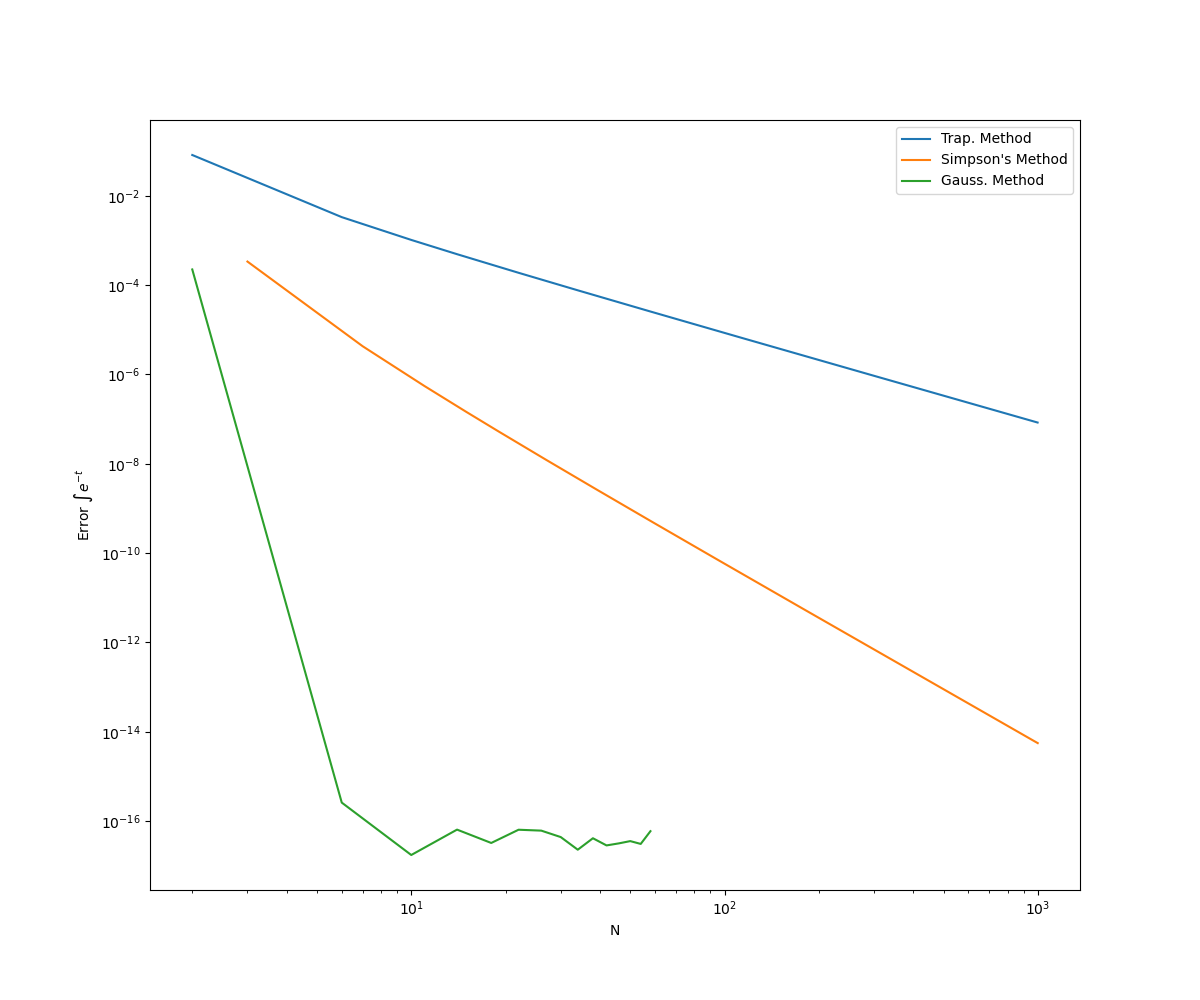
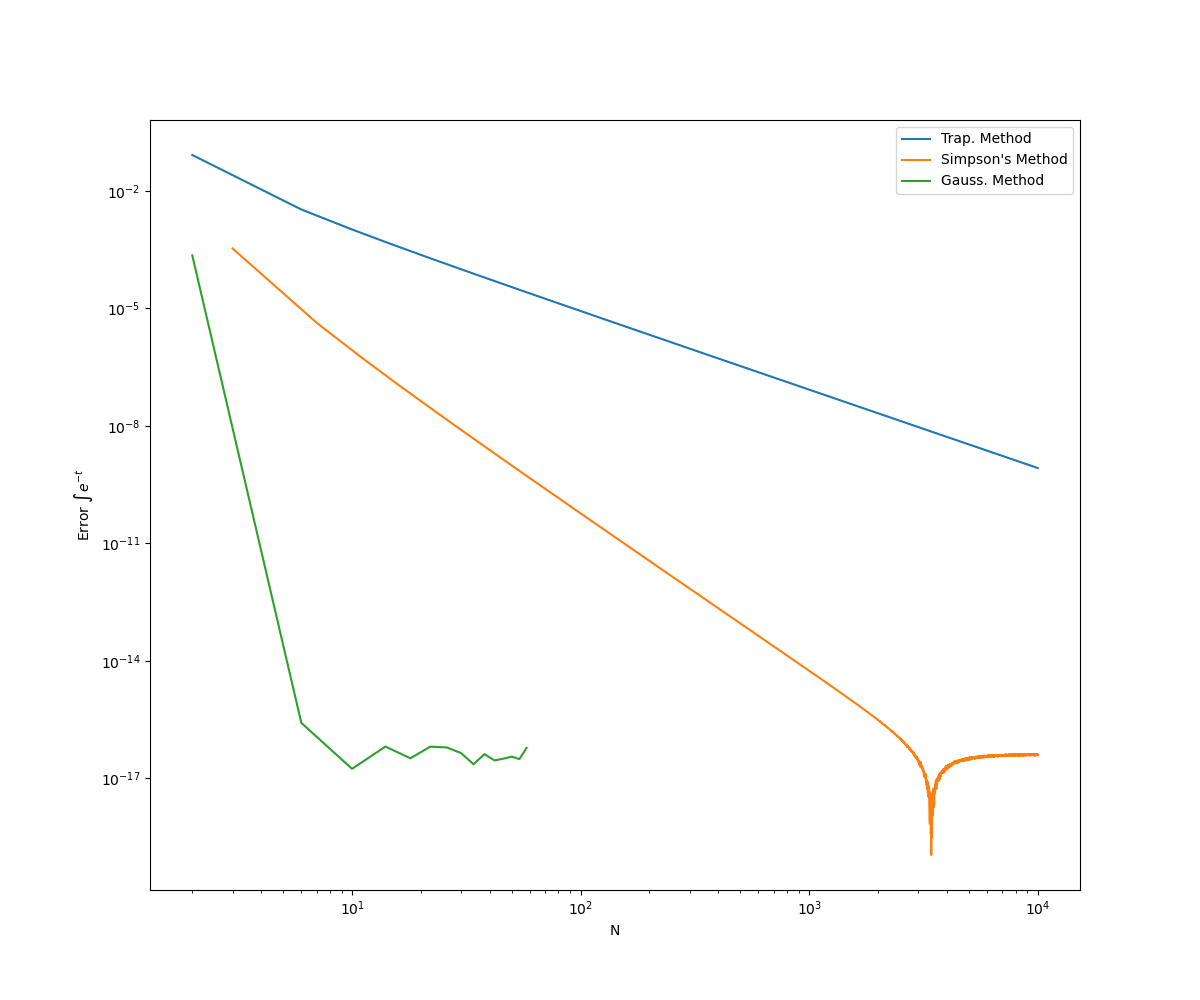
Finished discussion in readme and baderrors plot

diff --git a/gqconstants.py b/gqconstants.py
@@ -284,7 +284,7 @@ def comp_integ(function_name, f, f_integ, a: float, b: float, n_list, g_limit) -
     axs.set_xlabel("N")
 
     # plt.show()
-    plt.savefig(f"Errors.png")
+    plt.savefig(f"BadErrors.png")
 
 
 def neg_exp(t):
@@ -306,6 +306,15 @@ def n_poly(coef: np.ndarray, x: float):
 
     return poly_sum
 
+def stupid(x):
+    return np.cos(200*x)*np.power(x,2)
+
+def stupid_func(x):
+    return ((20000.*np.power(x,2) - 1.)*np.sin(200.*x) + 200.*x*np.cos(200.*x))/4000000.
+
+def stupid_integ(a, b):
+    return stupid_func(b) - stupid_func(a)
+
 
 # Example usage and testing
 if __name__ == "__main__":
@@ -326,6 +335,8 @@ if __name__ == "__main__":
     # print(gauss_hp.integ(quadr, 0, 1))
     # print(gauss_hp.integ_trap(quadr, 0, 1))
     # print(gauss_hp.integ_simp(quadr, 0, 1))
-    n_vals = [i for i in range(2,1000,4)]
-    comp_integ("$\int e^{-t}$", neg_exp, neg_exp_integ, 0., 1., n_vals, g_limit=60)
+    n_vals = [i for i in range(2,10000,4)]
+    # comp_integ("$\int e^{-t}$", neg_exp, neg_exp_integ, 0., 1., n_vals, g_limit=60)
+
+    comp_integ("$\int cos(200x)*x^{2}$", stupid, stupid_integ, 0., 1., n_vals, g_limit=60)
     

diff --git a/README.md b/README.md
@@ -17,3 +17,9 @@ You can also use the C++ example as a guide to build your own executable
 
 There is no need to look at rules >~25 for Gaussian quadrature.  And you can also stop at ~ 1000 divisions for the trapezoidal and Simpson's rules.  If you run much longer you'll see the numerical errors bevome visible for the trapezoidal, but hyou'll need to think about how to code efficiently or the running time may be very long.
 
+## Error of the integral of exp(-t)
+In the algorithmic error regime of the plot, the power law dependence of the relative error on N can be found by estimating the slope of the linear fit of log(error) vs log(N). For the Gaussian method, I get a slope of roughly -24 while for trapezoid and simpson's methods the slope is close to -4 and -1.5 respectively. Clearly the Gaussian method rapidly outpaces the other methods in reducing error as N grows large. I was only able to reach the roundoff regime of the Gaussian and Simpson methods. In this regime, the Gaussian error barely increases as N grows, so its power law relationship is likely a power very close to zero (or roughly a constant error). The Simpson error rapidly increases in this regime but tapers off to roughly a constant error. Therefore, I would say the power law in this case is also very close to zero. 
+
+
+## Bad Error
+The function I chose to produce bad performance is a combination of a highly oscillatory cosine term multiplied by x squared. Because it oscillates very quickly, it takes much larger N (or smaller intervals) before Simpson's method and the trapezoid method can reasonably match the behavior of the function. Before then, they over/underestimate the area under the function greatly. As for the Gaussian method, it takes much higher order polynomials before it can also match how quickly the function oscillates. I think the x squared also adds in some weird behavior that is hard to capture for small N. Really the only way to improve the performance is to minimize the intervals of numerical integration for the Simpson and trapezoid methods, or the order of polynomials in the case of the Gaussian Quadrature method.
